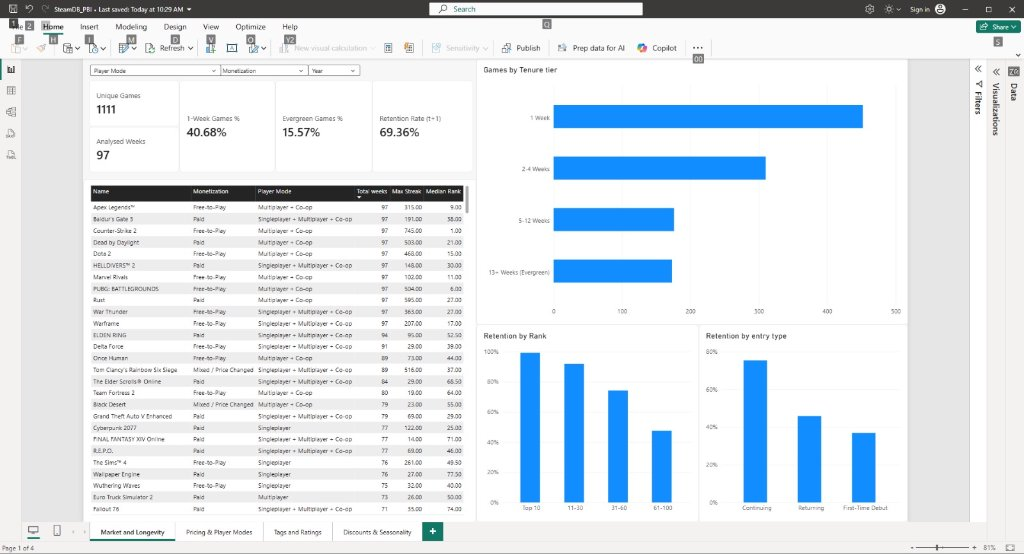
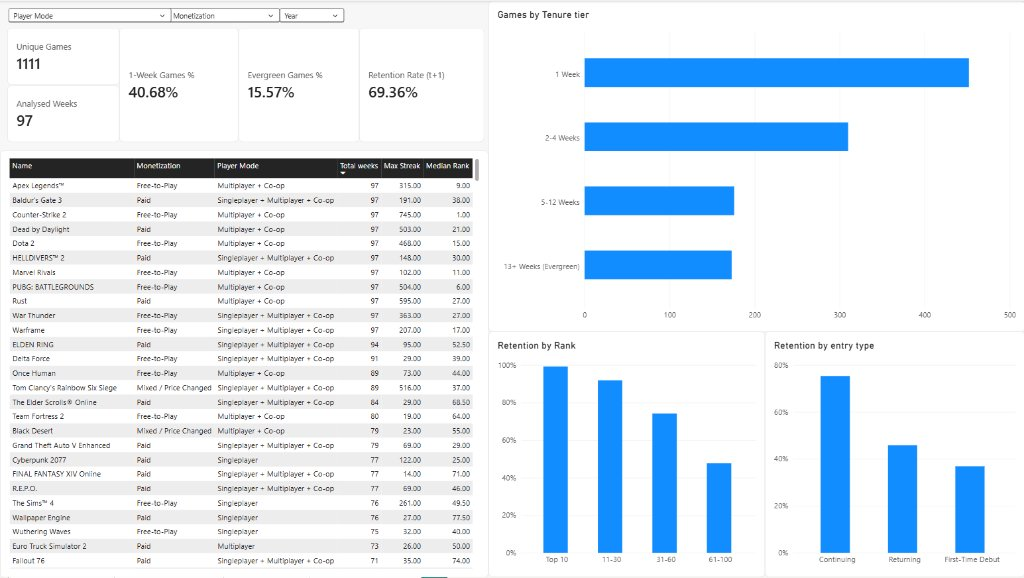
Center README diagram and update cropped Power BI screenshots

diff --git a/README.md b/README.md
@@ -11,22 +11,22 @@ This documentation covers the active Python pipeline in [`Python/`](Python/), th
 ## End-to-End Architecture
 
 ```text
-Steam Global Charts + Store + ITAD APIs
-                  │
-                  ▼
-      Staging CSV + Chart Validation
-                  │
-                  ▼
-     Transactional Upsert → PostgreSQL (Neon)
-       (games, tags, weeksheet)
-                  │
-                  ▼
-    Analytical SQL Views (002_create_analytics_views.sql)
-                  │
-        ┌─────────┴──────────┐
-        ▼                    ▼
-  Power BI (.pbix)     Excel (.xlsx)
-  Strategic Insights   Tactical Competitor Benchmark
+          Steam Global Charts + Store + ITAD APIs
+                             │
+                             ▼
+               Staging CSV + Chart Validation
+                             │
+                             ▼
+         Transactional Upsert → PostgreSQL (Neon)
+                  (games, tags, weeksheet)
+                             │
+                             ▼
+   Analytical SQL Views (002_create_analytics_views.sql)
+                             │
+              ┌──────────────┴──────────────┐
+              ▼                             ▼
+       Power BI (.pbix)               Excel (.xlsx)
+      Strategic Insights      Tactical Competitor Benchmark
 ```
 
 ---
@@ -63,11 +63,11 @@ Steam Global Charts + Store + ITAD APIs
 1. **Market & Longevity** — Tenure funnel, rank/entry retention, top games table.
    ![Power BI — Market & Longevity](docs/images/powerbi-page1-market-longevity.jpg)
 2. **Pricing & Play Modes** — Retention vs. discount dependency by price tier, separate play-mode comparison, full-price vs. discounted matrix.
-   ![Power BI — Pricing & Play Modes](docs/images/powerbi-page2-pricing-play-modes.jpg)
+   ![Power BI — Pricing & Play Modes](docs/images/powerbi-page2-pricing-play-modes.png)
 3. **Tags & Ratings** — Genre evergreen rankings (`>= 30` games), retention vs. discount scatter plot, retention & median rank by Steam rating tier.
-   ![Power BI — Tags & Ratings](docs/images/powerbi-page3-tags-ratings.jpg)
+   ![Power BI — Tags & Ratings](docs/images/powerbi-page3-tags-ratings.png)
 4. **Discounts & Seasonality** — Post-discount `t+1` outcomes, discount-band rank delta & retention, 97-week seasonal sale wave analysis.
-   ![Power BI — Discounts & Seasonality](docs/images/powerbi-page4-discounts-seasonality.jpg)
+   ![Power BI — Discounts & Seasonality](docs/images/powerbi-page4-discounts-seasonality.png)
 
 ### 2. Excel Operational Benchmark — [`SteamDB_Dashboard.xlsx`](SteamDB_Dashboard.xlsx)
 Interactive studio benchmark workbook powered by **Power Query**, the **Excel Data Model**, **PivotTables** (`Distinct Count`), **Slicers & Timeline**, conditional formatting (**Data Bars**), and **`XLOOKUP` + Data Validation** (`TagBenchmark`) for filtering live competitors by price tier, rating, play mode, and date range.
